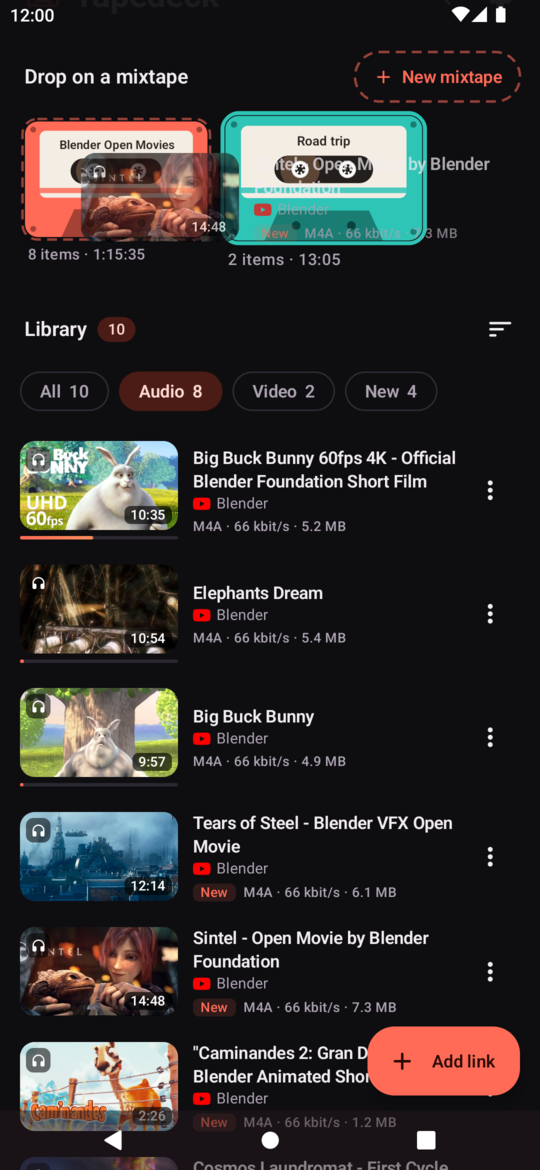
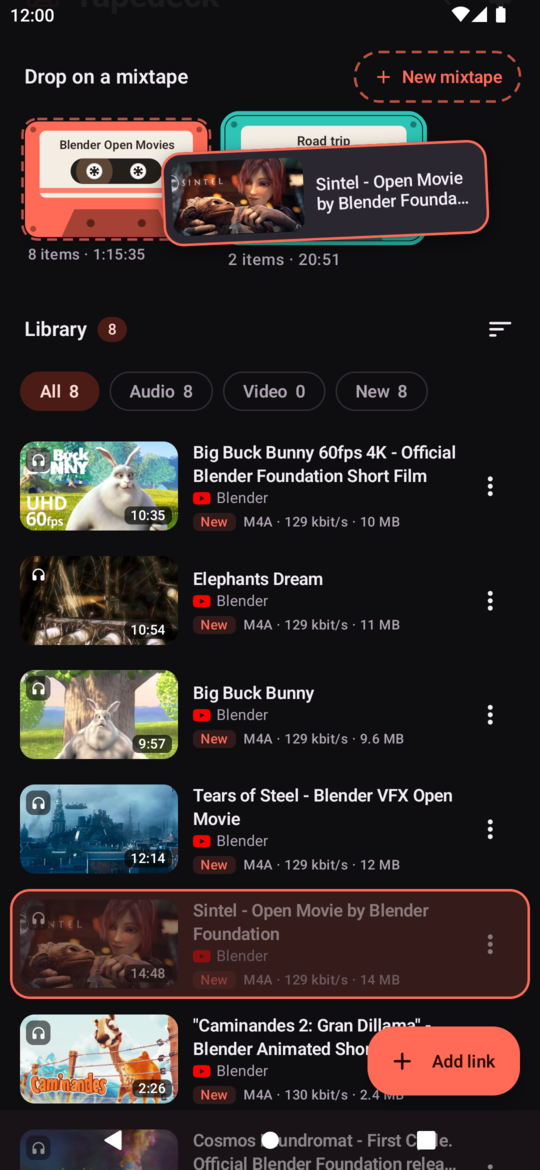
Tapedeck 0.5.2, and the README shows the lifted card
The screenshot of dragging onto the shelf now shows the small copy of the card under the finger and the card marked in the list.

diff --git a/README.md b/README.md
@@ -77,7 +77,7 @@ stopped.
   </tr>
   <tr>
     <td align="center"><img src="docs/images/mixtape.png" width="190" alt="The mixtape Road trip: a teal cassette, Play and Shuffle, and its three films in order with drag handles; the first one is playing"></td>
-    <td align="center"><img src="docs/images/mixtape-drag.png" width="190" alt="Dragging Sintel onto a mixtape: the shelf has come into view, Blender Open Movies waits with a dashed ring, Road trip under the finger has grown with a solid ring, and New mixtape waits in the shelf's head"></td>
+    <td align="center"><img src="docs/images/mixtape-drag.png" width="190" alt="Dragging Sintel onto a mixtape: a small copy of its card hangs under the finger over Road trip, which has grown with a solid ring; Blender Open Movies and New mixtape wait with dashed rings, and Sintel's card in the list is marked as the one in hand"></td>
     <td align="center"><img src="docs/images/playback.png" width="190" alt="The playback menu in the player: speed from 0.75× to 2×, repeat off, all or this one, shuffle and skip silence"></td>
     <td align="center"><img src="docs/images/deck.png" width="190" alt="Audio as a cassette in a tape deck: the label shows the title, a tape counter at 1:49, the play light on, and the background tinted in the mixtape's colour"></td>
   </tr>
